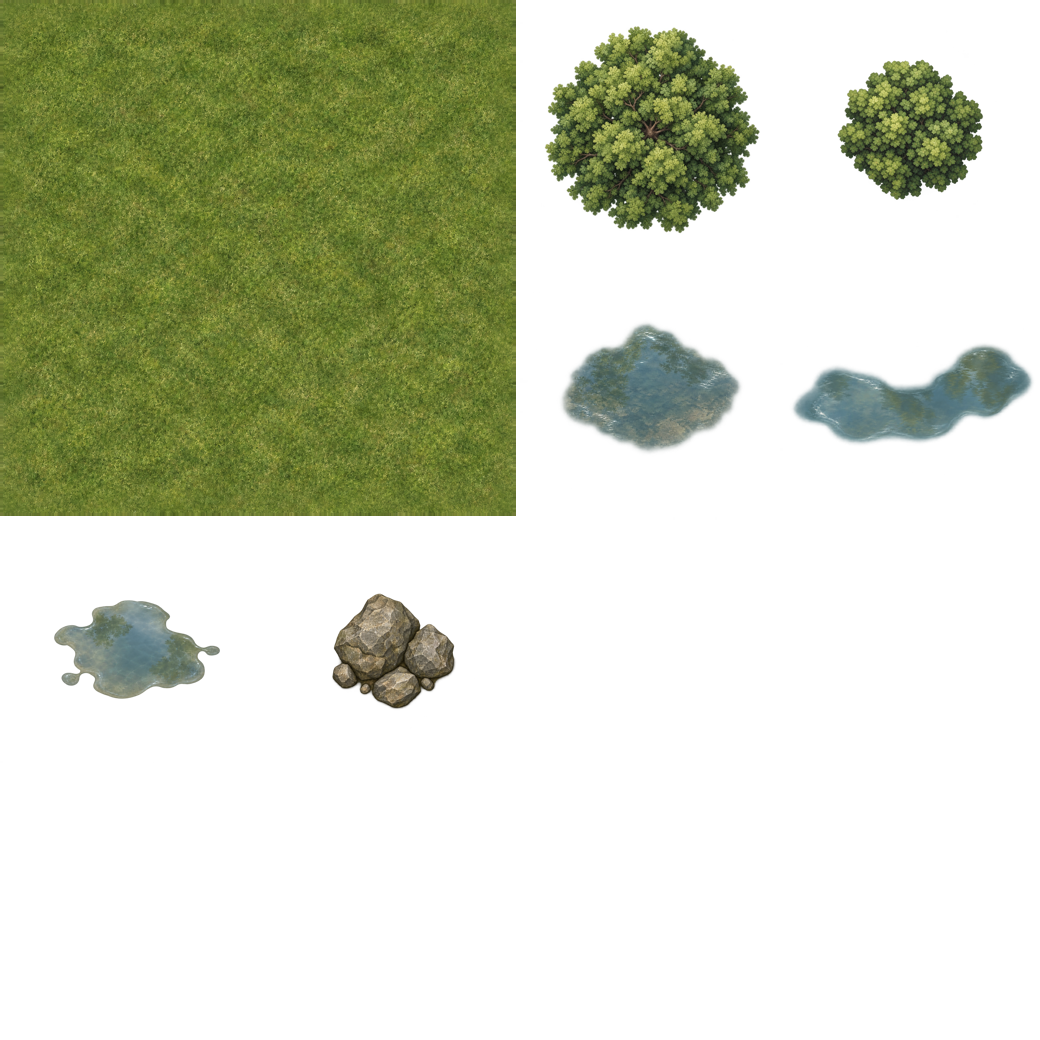
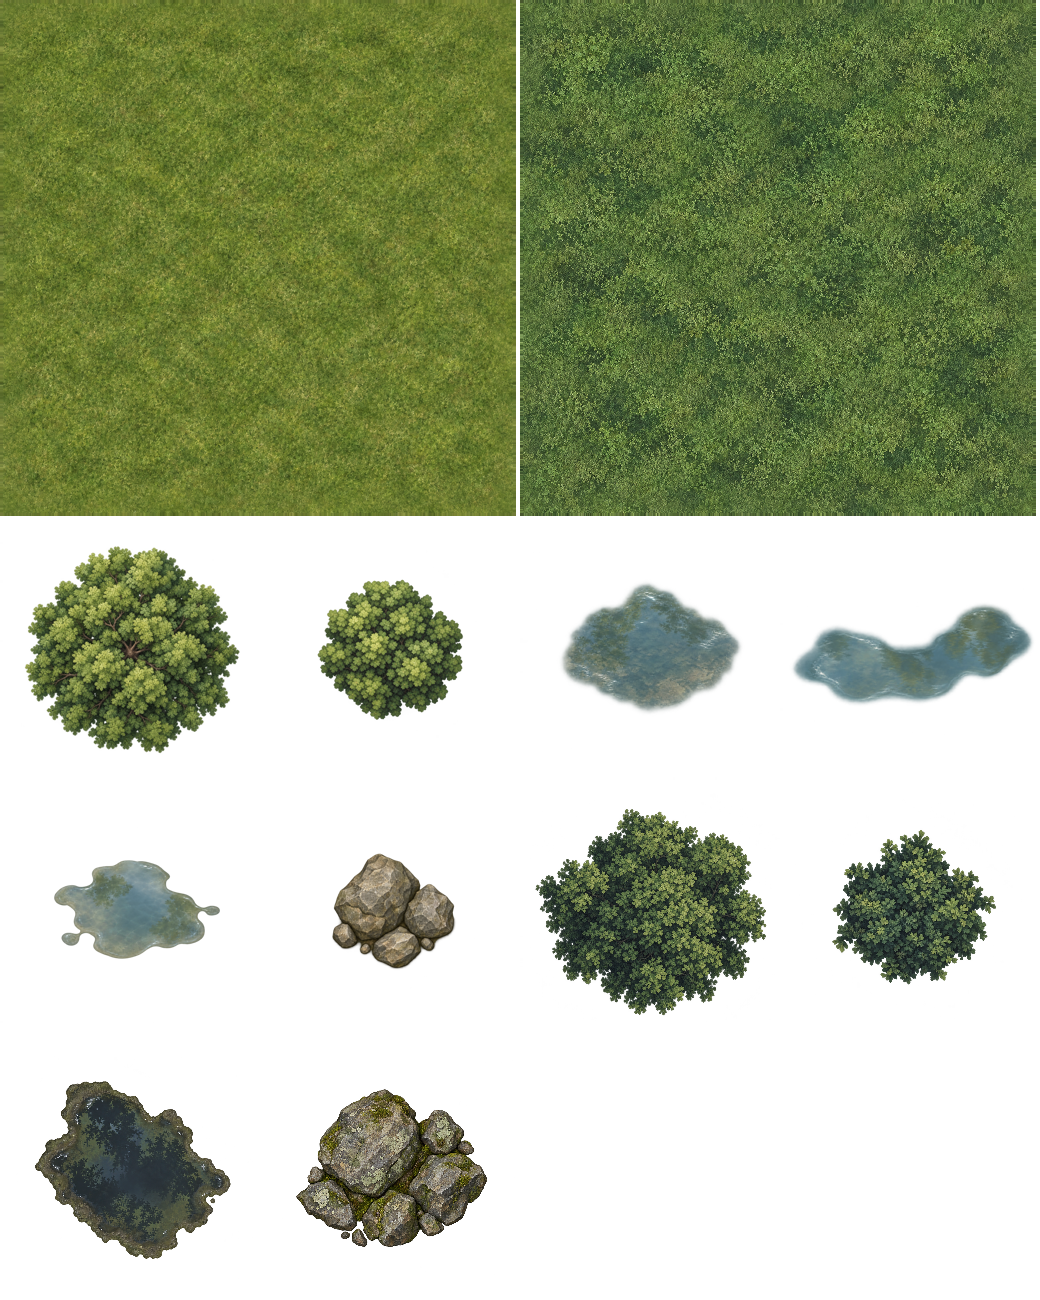
feat(terrain): integrate v2 scenery assets COS-87

diff --git a/scripts/PackTerrainAtlas.java b/scripts/PackTerrainAtlas.java
@@ -1,3 +1,6 @@
+import java.awt.AlphaComposite;
+import java.awt.Graphics2D;
+import java.awt.RenderingHints;
 import java.awt.image.BufferedImage;
 import java.io.IOException;
 import java.nio.file.Files;
@@ -8,7 +11,7 @@ import javax.imageio.ImageIO;
 /** Rebuilds the single-page scenery atlas using only the JDK. Run from the repository root. */
 public final class PackTerrainAtlas {
     private static final int PAGE_WIDTH = 1040;
-    private static final int PAGE_HEIGHT = 1040;
+    private static final int PAGE_HEIGHT = 1300;
     private static final int PADDING = 2;
     private static final int GRASS_SEAM_BLEND = 32;
     private static final Path ASSET_DIR = Path.of("src/main/resources/assets/images/terrain");
@@ -18,12 +21,17 @@ public final class PackTerrainAtlas {
     private static final Path SPRITE_PREVIEW = Path.of("target/terrain-sprite-preview.png");
     private static final List<Sprite> SPRITES = List.of(
             new Sprite("grass-01", "grass-01.png", 2, 2, 512, 512, false),
-            new Sprite("tree-01", "tree-01.png", 522, 2, 256, 256, true),
-            new Sprite("bush-01", "bush-01.png", 782, 2, 256, 256, true),
-            new Sprite("puddle-01", "puddle-01.png", 522, 262, 256, 256, true),
-            new Sprite("puddle-02", "puddle-02.png", 782, 262, 256, 256, true),
-            new Sprite("puddle-03", "puddle-03.png", 2, 522, 256, 256, true),
-            new Sprite("rock-cluster-01", "rock-cluster-01.png", 262, 522, 256, 256, true)
+            new Sprite("grass-02", "v2/grass-02.png", 522, 2, 512, 512, false),
+            new Sprite("tree-01", "tree-01.png", 2, 522, 256, 256, true),
+            new Sprite("bush-01", "bush-01.png", 262, 522, 256, 256, true),
+            new Sprite("puddle-01", "puddle-01.png", 522, 522, 256, 256, true),
+            new Sprite("puddle-02", "puddle-02.png", 782, 522, 256, 256, true),
+            new Sprite("puddle-03", "puddle-03.png", 2, 782, 256, 256, true),
+            new Sprite("rock-cluster-01", "rock-cluster-01.png", 262, 782, 256, 256, true),
+            new Sprite("tree-02", "v2/tree-02.png", 522, 782, 256, 256, true),
+            new Sprite("bush-02", "v2/bush-02.png", 782, 782, 256, 256, true),
+            new Sprite("puddle-04", "v2/puddle-04.png", 2, 1042, 256, 256, true),
+            new Sprite("rock-cluster-02", "v2/rock-cluster-02.png", 262, 1042, 256, 256, true)
     );
 
     private PackTerrainAtlas() {}
@@ -31,20 +39,22 @@ public final class PackTerrainAtlas {
     public static void main(String[] args) throws IOException {
         BufferedImage page = new BufferedImage(PAGE_WIDTH, PAGE_HEIGHT, BufferedImage.TYPE_INT_ARGB);
         BufferedImage packedGrass = null;
+        BufferedImage packedGrassV2 = null;
         for (Sprite sprite : SPRITES) {
             Path source = ASSET_DIR.resolve(sprite.fileName());
             BufferedImage image = ImageIO.read(source.toFile());
-            if (image == null || image.getWidth() != sprite.width() || image.getHeight() != sprite.height()) {
-                throw new IllegalStateException("Unexpected dimensions or unsupported image: " + source);
-            }
+            if (image == null) throw new IllegalStateException("Unsupported image: " + source);
             boolean sourceHasAlpha = image.getColorModel().hasAlpha();
             if (sprite.requiresAlpha()) {
                 verifyTransparentSprite(image, source);
-                image = bleedTransparentRgb(image, PADDING);
+                image = bleedTransparentRgb(fitToRegion(image, sprite.width(), sprite.height()), PADDING);
+            } else {
+                image = fitToRegion(image, sprite.width(), sprite.height());
             }
-            if (sprite.region().equals("grass-01")) {
-                packedGrass = softenOppositeEdges(image, GRASS_SEAM_BLEND);
-                image = packedGrass;
+            if (sprite.region().startsWith("grass-")) {
+                image = softenOppositeEdges(image, GRASS_SEAM_BLEND);
+                if (sprite.region().equals("grass-01")) packedGrass = image;
+                else packedGrassV2 = image;
             }
             extrude(page, image, sprite);
             System.out.printf("%s: %dx%d, alpha=%s%n", source.getFileName(), image.getWidth(), image.getHeight(),
@@ -56,12 +66,15 @@ public final class PackTerrainAtlas {
         Files.writeString(MANIFEST, manifest());
         Files.createDirectories(PREVIEW.getParent());
         ImageIO.write(repeatPreview(packedGrass), "png", PREVIEW.toFile());
-        ImageIO.write(spritePreview(packedGrass), "png", SPRITE_PREVIEW.toFile());
+        ImageIO.write(spritePreview(packedGrassV2), "png", SPRITE_PREVIEW.toFile());
         System.out.printf("Wrote %s (%d x %d, RGBA8888, one page, estimated %d bytes)%n",
                 OUTPUT, PAGE_WIDTH, PAGE_HEIGHT, (long) PAGE_WIDTH * PAGE_HEIGHT * 4);
-        System.out.printf("Grass mean opposite-edge difference: source %.2f, atlas %.2f per channel (inspect %s)%n",
+        System.out.printf("Grass edge difference per channel: v1 source %.2f -> atlas %.2f; "
+                        + "v2 source %.2f -> atlas %.2f (inspect %s)%n",
                 meanOppositeEdgeDifference(ImageIO.read(ASSET_DIR.resolve("grass-01.png").toFile())),
-                meanOppositeEdgeDifference(packedGrass), PREVIEW);
+                meanOppositeEdgeDifference(packedGrass),
+                meanOppositeEdgeDifference(ImageIO.read(ASSET_DIR.resolve("v2/grass-02.png").toFile())),
+                meanOppositeEdgeDifference(packedGrassV2), PREVIEW);
         System.out.println("Wrote sprite-on-grass preview to " + SPRITE_PREVIEW);
     }
 
@@ -88,6 +101,20 @@ public final class PackTerrainAtlas {
                         source.getRGB(clamp(x, sprite.width()), clamp(y, sprite.height())));
             }
         }
+    }
+
+    private static BufferedImage fitToRegion(BufferedImage source, int width, int height) {
+        double scale = Math.min(width / (double) source.getWidth(), height / (double) source.getHeight());
+        int scaledWidth = Math.max(1, (int) Math.round(source.getWidth() * scale));
+        int scaledHeight = Math.max(1, (int) Math.round(source.getHeight() * scale));
+        BufferedImage fitted = new BufferedImage(width, height, BufferedImage.TYPE_INT_ARGB);
+        Graphics2D graphics = fitted.createGraphics();
+        graphics.setComposite(AlphaComposite.Src);
+        graphics.setRenderingHint(RenderingHints.KEY_INTERPOLATION, RenderingHints.VALUE_INTERPOLATION_BICUBIC);
+        graphics.drawImage(source, (width - scaledWidth) / 2, (height - scaledHeight) / 2,
+                scaledWidth, scaledHeight, null);
+        graphics.dispose();
+        return fitted;
     }
 
     private static int clamp(int value, int size) {
@@ -185,7 +212,7 @@ public final class PackTerrainAtlas {
     }
 
     private static BufferedImage spritePreview(BufferedImage grass) throws IOException {
-        BufferedImage preview = new BufferedImage(grass.getWidth() * 3, grass.getHeight() * 2,
+        BufferedImage preview = new BufferedImage(grass.getWidth() * 3, grass.getHeight() * 4,
                 BufferedImage.TYPE_INT_RGB);
         for (int y = 0; y < preview.getHeight(); y++) {
             for (int x = 0; x < preview.getWidth(); x++) {
@@ -195,8 +222,8 @@ public final class PackTerrainAtlas {
         int decorationIndex = 0;
         for (Sprite sprite : SPRITES) {
             if (!sprite.requiresAlpha()) continue;
-            BufferedImage source = bleedTransparentRgb(
-                    ImageIO.read(ASSET_DIR.resolve(sprite.fileName()).toFile()), PADDING);
+            BufferedImage source = bleedTransparentRgb(fitToRegion(
+                    ImageIO.read(ASSET_DIR.resolve(sprite.fileName()).toFile()), sprite.width(), sprite.height()), PADDING);
             int tileX = decorationIndex % 3;
             int tileY = decorationIndex / 3;
             int offsetX = tileX * grass.getWidth() + (grass.getWidth() - source.getWidth()) / 2;

diff --git a/src/main/java/com/davidpe/cosmicaces/infrastructure/gdx/scenery/TerrainSceneryRenderer.java b/src/main/java/com/davidpe/cosmicaces/infrastructure/gdx/scenery/TerrainSceneryRenderer.java
@@ -28,11 +28,9 @@ public final class TerrainSceneryRenderer implements Disposable {
 
     private final TerrainAtlasOwner<TextureAtlas> atlasOwner;
     private final TextureAtlas atlas;
-    private final TextureRegion grass;
-    private final TextureRegion partialRight;
-    private final TextureRegion partialTop;
-    private final TextureRegion partialCorner;
+    private final List<GroundRegions> groundVariants;
     private final Map<String, TextureRegion> sceneryRegions;
+    private final long groundSeed;
     private final int worldWidth;
     private final int worldHeight;
     private final TerrainGroundPlanner groundPlanner;
@@ -42,6 +40,7 @@ public final class TerrainSceneryRenderer implements Disposable {
         Objects.requireNonNull(config, "config");
         worldWidth = config.worldWidth();
         worldHeight = config.worldHeight();
+        groundSeed = config.seed();
         groundPlanner = new TerrainGroundPlanner(worldWidth, worldHeight);
         int tileSize = TerrainAtlasCatalog.GRASS_TILE_SIZE;
 
@@ -82,15 +81,12 @@ public final class TerrainSceneryRenderer implements Disposable {
                 }
                 regions.put(expected.id(), region);
             }
-            grass = regions.get(TerrainAtlasCatalog.GRASS_ID);
+            groundVariants = List.of(
+                    groundRegions(regions.get(TerrainAtlasCatalog.GRASS_ID), partialWidth(worldWidth, tileSize),
+                            partialHeight(worldHeight, tileSize), tileSize),
+                    groundRegions(regions.get(TerrainAtlasCatalog.GRASS_V2_ID), partialWidth(worldWidth, tileSize),
+                            partialHeight(worldHeight, tileSize), tileSize));
             sceneryRegions = Map.copyOf(regions);
-            int partialWidth = worldWidth % tileSize;
-            int partialHeight = worldHeight % tileSize;
-            partialRight = partialWidth == 0 ? null : subregion(grass, 0, 0, partialWidth, tileSize);
-            partialTop = partialHeight == 0 ? null
-                    : subregion(grass, 0, tileSize - partialHeight, tileSize, partialHeight);
-            partialCorner = partialWidth == 0 || partialHeight == 0 ? null
-                    : subregion(grass, 0, tileSize - partialHeight, partialWidth, partialHeight);
         } catch (RuntimeException | Error failure) {
             owner.dispose();
             throw failure;
@@ -108,8 +104,9 @@ public final class TerrainSceneryRenderer implements Disposable {
         for (TerrainGroundPlanner.Tile tile : groundPlanner.plan(visibleArea)) {
             boolean rightEdge = tile.width() != TerrainAtlasCatalog.GRASS_TILE_SIZE;
             boolean topEdge = tile.height() != TerrainAtlasCatalog.GRASS_TILE_SIZE;
-            TextureRegion region = rightEdge && topEdge ? partialCorner
-                    : rightEdge ? partialRight : topEdge ? partialTop : grass;
+            GroundRegions ground = groundVariants.get(selectGroundVariant(tile));
+            TextureRegion region = rightEdge && topEdge ? ground.partialCorner()
+                    : rightEdge ? ground.partialRight() : topEdge ? ground.partialTop() : ground.full();
             batch.draw(region, (float) tile.x(), (float) tile.y(), tile.width(), tile.height());
             drawn++;
         }
@@ -156,6 +153,28 @@ public final class TerrainSceneryRenderer implements Disposable {
         return new TextureRegion(parent, x, y, width, height);
     }
 
+    private static GroundRegions groundRegions(TextureRegion grass, int partialWidth, int partialHeight,
+                                                int tileSize) {
+        return new GroundRegions(grass,
+                partialWidth == 0 ? null : subregion(grass, 0, 0, partialWidth, tileSize),
+                partialHeight == 0 ? null
+                        : subregion(grass, 0, tileSize - partialHeight, tileSize, partialHeight),
+                partialWidth == 0 || partialHeight == 0 ? null
+                        : subregion(grass, 0, tileSize - partialHeight, partialWidth, partialHeight));
+    }
+
+    private static int partialWidth(int worldWidth, int tileSize) { return worldWidth % tileSize; }
+
+    private static int partialHeight(int worldHeight, int tileSize) { return worldHeight % tileSize; }
+
+    private int selectGroundVariant(TerrainGroundPlanner.Tile tile) {
+        long value = groundSeed ^ ((long) tile.column() << 32) ^ (tile.row() & 0xffffffffL);
+        value = (value ^ (value >>> 30)) * 0xBF58476D1CE4E5B9L;
+        value = (value ^ (value >>> 27)) * 0x94D049BB133111EBL;
+        value ^= value >>> 31;
+        return (value & 3L) == 0L ? 1 : 0;
+    }
+
     private static int layer(SceneryType type) {
         return switch (type) {
             case PUDDLE -> 0;
@@ -164,5 +183,8 @@ public final class TerrainSceneryRenderer implements Disposable {
             case TREE -> 3;
         };
     }
+
+    private record GroundRegions(TextureRegion full, TextureRegion partialRight,
+                                 TextureRegion partialTop, TextureRegion partialCorner) {}
 
 }

diff --git a/src/test/java/com/davidpe/cosmicaces/infrastructure/gdx/scenery/TerrainAtlasCatalogTest.java b/src/test/java/com/davidpe/cosmicaces/infrastructure/gdx/scenery/TerrainAtlasCatalogTest.java
@@ -16,14 +16,15 @@ import org.junit.jupiter.api.Test;
 
 class TerrainAtlasCatalogTest {
     private static final Set<String> EXPECTED_IDS = Set.of(
-            "grass-01", "tree-01", "bush-01", "puddle-01", "puddle-02", "puddle-03", "rock-cluster-01"
+            "grass-01", "grass-02", "tree-01", "tree-02", "bush-01", "bush-02",
+            "puddle-01", "puddle-02", "puddle-03", "puddle-04", "rock-cluster-01", "rock-cluster-02"
     );
 
     @Test
     void atlasContainsOnePageAndEveryExpectedResourceAtItsSourceDimensions() throws IOException {
         assertEquals(1, TerrainAtlasCatalog.PAGE_COUNT);
         assertEquals(1040, TerrainAtlasCatalog.PAGE_WIDTH);
-        assertEquals(1040, TerrainAtlasCatalog.PAGE_HEIGHT);
+        assertEquals(1300, TerrainAtlasCatalog.PAGE_HEIGHT);
         assertEquals(EXPECTED_IDS, TerrainAtlasCatalog.regions().stream()
                 .map(TerrainAtlasCatalog.Region::id).collect(java.util.stream.Collectors.toSet()));
 
@@ -49,24 +50,29 @@ class TerrainAtlasCatalogTest {
     }
 
     @Test
-    void grassOppositeEdgesHaveLowMeanDifferenceForSeamlessRepeating() throws IOException {
+    void bothGrassVariantsHaveLowMeanOppositeEdgeDifferenceForSeamlessRepeating() throws IOException {
         BufferedImage atlas = read("/assets/images/terrain/terrain-atlas.png");
+        assertGrassEdges(atlas, 2, 2);
+        assertGrassEdges(atlas, 522, 2);
         BufferedImage grass = read("/assets/images/terrain/grass-01.png");
+        assertEquals(TerrainAtlasCatalog.GRASS_TILE_SIZE, grass.getWidth());
+    }
+
+    private static void assertGrassEdges(BufferedImage atlas, int regionX, int regionY) {
         long difference = 0;
         long channels = 0;
         for (int y = 0; y < TerrainAtlasCatalog.GRASS_TILE_SIZE; y++) {
-            int left = atlas.getRGB(2, 2 + y);
-            int right = atlas.getRGB(2 + TerrainAtlasCatalog.GRASS_TILE_SIZE - 1, 2 + y);
+            int left = atlas.getRGB(regionX, regionY + y);
+            int right = atlas.getRGB(regionX + TerrainAtlasCatalog.GRASS_TILE_SIZE - 1, regionY + y);
             difference += channelDifference(left, right);
             channels += 3;
         }
-        for (int x = 0; x < TerrainAtlasCatalog.GRASS_TILE_SIZE; x++) {
-            int top = atlas.getRGB(2 + x, 2);
-            int bottom = atlas.getRGB(2 + x, 2 + TerrainAtlasCatalog.GRASS_TILE_SIZE - 1);
+        for (int pixelX = 0; pixelX < TerrainAtlasCatalog.GRASS_TILE_SIZE; pixelX++) {
+            int top = atlas.getRGB(regionX + pixelX, regionY);
+            int bottom = atlas.getRGB(regionX + pixelX, regionY + TerrainAtlasCatalog.GRASS_TILE_SIZE - 1);
             difference += channelDifference(top, bottom);
             channels += 3;
         }
-        assertEquals(TerrainAtlasCatalog.GRASS_TILE_SIZE, grass.getWidth());
         assertTrue(difference / (double) channels < 1.0,
                 "packed grass edges should be continuous after the documented border blend");
     }
@@ -74,10 +80,10 @@ class TerrainAtlasCatalogTest {
     @Test
     void allDecorationSourcesHaveActualTransparentAndVisiblePixels() throws IOException {
         for (TerrainAtlasCatalog.Region region : TerrainAtlasCatalog.regions()) {
-            if (region.id().equals(TerrainAtlasCatalog.GRASS_ID)) continue;
+            if (region.id().startsWith("grass-")) continue;
             BufferedImage image = read("/" + region.sourcePath());
-            assertEquals(region.width(), image.getWidth());
-            assertEquals(region.height(), image.getHeight());
+            assertTrue(image.getWidth() >= region.width());
+            assertTrue(image.getHeight() >= region.height());
             assertTrue(image.getColorModel().hasAlpha(), region.id() + " needs an alpha channel");
             boolean transparent = false;
             boolean visible = false;

diff --git a/src/main/java/com/davidpe/cosmicaces/infrastructure/gdx/scenery/TerrainAtlasCatalog.java b/src/main/java/com/davidpe/cosmicaces/infrastructure/gdx/scenery/TerrainAtlasCatalog.java
@@ -7,19 +7,26 @@ import java.util.Map;
 public final class TerrainAtlasCatalog {
     public static final String ATLAS_PATH = "assets/images/terrain/terrain.atlas";
     public static final String GRASS_ID = "grass-01";
+    public static final String GRASS_V2_ID = "grass-02";
     public static final int PAGE_WIDTH = 1040;
-    public static final int PAGE_HEIGHT = 1040;
+    public static final int PAGE_HEIGHT = 1300;
     public static final int PAGE_COUNT = 1;
     public static final int GRASS_TILE_SIZE = 512;
-    private static final Map<String, Region> REGIONS = Map.of(
-            GRASS_ID, new Region(GRASS_ID, 512, 512, "assets/images/terrain/grass-01.png"),
-            "tree-01", new Region("tree-01", 256, 256, "assets/images/terrain/tree-01.png"),
-            "bush-01", new Region("bush-01", 256, 256, "assets/images/terrain/bush-01.png"),
-            "puddle-01", new Region("puddle-01", 256, 256, "assets/images/terrain/puddle-01.png"),
-            "puddle-02", new Region("puddle-02", 256, 256, "assets/images/terrain/puddle-02.png"),
-            "puddle-03", new Region("puddle-03", 256, 256, "assets/images/terrain/puddle-03.png"),
-            "rock-cluster-01", new Region("rock-cluster-01", 256, 256,
-                    "assets/images/terrain/rock-cluster-01.png")
+    private static final Map<String, Region> REGIONS = Map.ofEntries(
+            Map.entry(GRASS_ID, new Region(GRASS_ID, 512, 512, "assets/images/terrain/grass-01.png")),
+            Map.entry(GRASS_V2_ID, new Region(GRASS_V2_ID, 512, 512, "assets/images/terrain/v2/grass-02.png")),
+            Map.entry("tree-01", new Region("tree-01", 256, 256, "assets/images/terrain/tree-01.png")),
+            Map.entry("tree-02", new Region("tree-02", 256, 256, "assets/images/terrain/v2/tree-02.png")),
+            Map.entry("bush-01", new Region("bush-01", 256, 256, "assets/images/terrain/bush-01.png")),
+            Map.entry("bush-02", new Region("bush-02", 256, 256, "assets/images/terrain/v2/bush-02.png")),
+            Map.entry("puddle-01", new Region("puddle-01", 256, 256, "assets/images/terrain/puddle-01.png")),
+            Map.entry("puddle-02", new Region("puddle-02", 256, 256, "assets/images/terrain/puddle-02.png")),
+            Map.entry("puddle-03", new Region("puddle-03", 256, 256, "assets/images/terrain/puddle-03.png")),
+            Map.entry("puddle-04", new Region("puddle-04", 256, 256, "assets/images/terrain/v2/puddle-04.png")),
+            Map.entry("rock-cluster-01", new Region("rock-cluster-01", 256, 256,
+                    "assets/images/terrain/rock-cluster-01.png")),
+            Map.entry("rock-cluster-02", new Region("rock-cluster-02", 256, 256,
+                    "assets/images/terrain/v2/rock-cluster-02.png"))
     );
 
     private TerrainAtlasCatalog() {}

diff --git a/src/test/java/com/davidpe/cosmicaces/domain/scenery/TreePatternGeneratorTest.java b/src/test/java/com/davidpe/cosmicaces/domain/scenery/TreePatternGeneratorTest.java
@@ -55,14 +55,15 @@ class TreePatternGeneratorTest {
         Map<SceneryType, List<SceneryInstance>> byType = field.instances().stream()
                 .collect(Collectors.groupingBy(SceneryInstance::type));
 
-        assertEquals(List.of("tree-01"), byType.get(SceneryType.TREE).stream()
-                .map(SceneryInstance::assetId).distinct().toList());
-        assertEquals(List.of("bush-01"), byType.get(SceneryType.BUSH).stream()
-                .map(SceneryInstance::assetId).distinct().toList());
+        assertEquals(List.of("tree-01", "tree-02"), byType.get(SceneryType.TREE).stream()
+                .map(SceneryInstance::assetId).distinct().sorted().toList());
+        assertEquals(List.of("bush-01", "bush-02"), byType.get(SceneryType.BUSH).stream()
+                .map(SceneryInstance::assetId).distinct().sorted().toList());
         assertTrue(byType.get(SceneryType.PUDDLE).stream()
-                .allMatch(item -> List.of("puddle-01", "puddle-02", "puddle-03").contains(item.assetId())));
-        assertEquals(List.of("rock-cluster-01"), byType.get(SceneryType.ROCK).stream()
-                .map(SceneryInstance::assetId).distinct().toList());
+                .map(SceneryInstance::assetId).distinct().toList().containsAll(
+                        List.of("puddle-01", "puddle-02", "puddle-03", "puddle-04")));
+        assertEquals(List.of("rock-cluster-01", "rock-cluster-02"), byType.get(SceneryType.ROCK).stream()
+                .map(SceneryInstance::assetId).distinct().sorted().toList());
 
         for (SceneryInstance item : field.instances()) {
             assertTrue(item.width() >= item.type().minSize() && item.width() <= item.type().maxSize());

diff --git a/src/main/java/com/davidpe/cosmicaces/domain/scenery/SceneryType.java b/src/main/java/com/davidpe/cosmicaces/domain/scenery/SceneryType.java
@@ -2,10 +2,10 @@ package com.davidpe.cosmicaces.domain.scenery;
 
 /** Logical decorative resource types; these ids are not filesystem paths. */
 public enum SceneryType {
-    TREE(new String[]{"tree-01"}, 64, 94, 112),
-    BUSH(new String[]{"bush-01"}, 40, 64, 76),
-    PUDDLE(new String[]{"puddle-01", "puddle-02", "puddle-03"}, 42, 70, 270),
-    ROCK(new String[]{"rock-cluster-01"}, 42, 72, 190);
+    TREE(new String[]{"tree-01", "tree-02"}, 64, 94, 112),
+    BUSH(new String[]{"bush-01", "bush-02"}, 40, 64, 76),
+    PUDDLE(new String[]{"puddle-01", "puddle-02", "puddle-03", "puddle-04"}, 42, 70, 270),
+    ROCK(new String[]{"rock-cluster-01", "rock-cluster-02"}, 42, 72, 190);
 
     private final String[] assetIds;
     private final double minSize;

diff --git a/docs/architecture.md b/docs/architecture.md
@@ -33,11 +33,12 @@ pueden encapsular su dibujo. El dominio no importa clases de `application`,
 `infrastructure` o `boot`. Las dimensiones y otros parámetros externos se pasan
 al objeto, como hace Starfield con el tamaño del área.
 
-`scripts/PackTerrainAtlas.java` empaqueta los siete PNG de terreno en una página
-RGBA8888 con extrusión de dos píxeles para filtrado lineal; conserva los originales
-y mezcla 32 píxeles de los bordes opuestos del césped para que se repita sin junta.
-El renderer reutilizable vive en `infrastructure.gdx.scenery`; una pantalla lo crea
-en el hilo LibGDX y libera su atlas compartido al salir.
+`scripts/PackTerrainAtlas.java` empaqueta los doce recursos de terreno en una página
+RGBA8888 con extrusión de dos píxeles para filtrado lineal; conserva los originales,
+normaliza las variantes de alta resolución dentro de sus regiones y mezcla 32 píxeles
+de los bordes opuestos de ambas praderas. El renderer elige la variante de suelo de
+forma determinista según semilla y posición. Vive en `infrastructure.gdx.scenery`; una
+pantalla lo crea en el hilo LibGDX y libera su atlas compartido al salir.
 
 Los controladores de fase en application coordinan el dominio. GameCoordinator
 mantiene el estado global y decide las transiciones. CosmicAcesGame es la excepción
